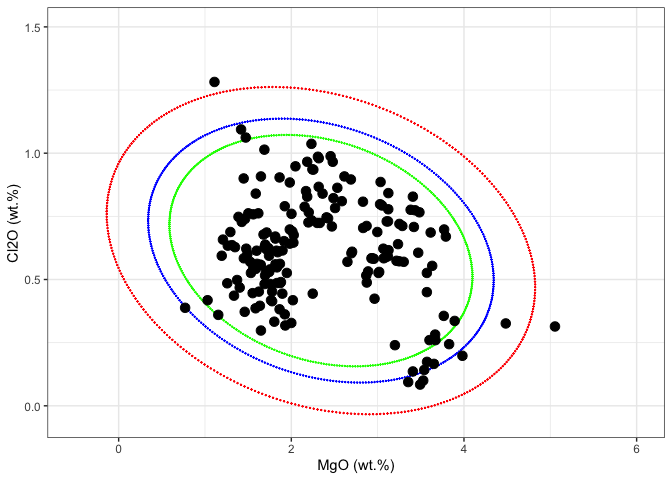
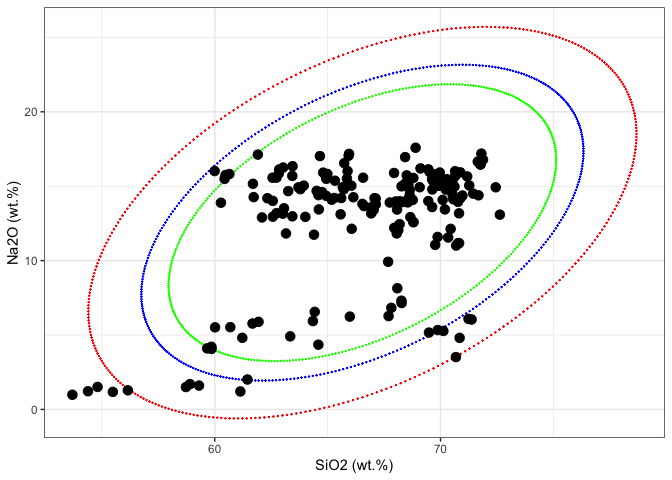
Updates

diff --git a/README.md b/README.md
@@ -92,17 +92,17 @@ the ellipse are considered to be part of the underlying distribution
 with the specified confidence level `conf_level`.
 
 ``` r
-ellipse_99 <- confidence_ellipse(glass, x = MgO, y = Cl2O, conf_level = 0.99)
-ellipse_95 <- confidence_ellipse(glass, x = MgO, y = Cl2O, conf_level = 0.95)
-ellipse_90 <- confidence_ellipse(glass, x = MgO, y = Cl2O, conf_level = 0.90)
+ellipse_99 <- confidence_ellipse(glass, x = SiO2, y = Na2O, conf_level = 0.99)
+ellipse_95 <- confidence_ellipse(glass, x = SiO2, y = Na2O, conf_level = 0.95)
+ellipse_90 <- confidence_ellipse(glass, x = SiO2, y = Na2O, conf_level = 0.90)
 ```
 
 ``` r
 ellipse_99 %>% glimpse()
 #> Rows: 361
 #> Columns: 2
-#> $ x <dbl> -0.138094945, -0.138406455, -0.137962123, -0.136762084, -0.134806705…
-#> $ y <dbl> 0.7702743, 0.7592797, 0.7482409, 0.7371614, 0.7260445, 0.7148935, 0.…
+#> $ x <dbl> 76.35866, 76.23254, 76.10346, 75.97148, 75.83662, 75.69893, 75.55845…
+#> $ y <dbl> 24.26617, 24.36884, 24.46791, 24.56335, 24.65513, 24.74322, 24.82760…
 ```
 
 ``` r
@@ -110,11 +110,9 @@ ggplot() +
   geom_point(data = ellipse_99, aes(x = x, y = y), color = "red", size = .1) +
   geom_point(data = ellipse_95, aes(x = x, y = y), color = "blue", size = .1) +
   geom_point(data = ellipse_90, aes(x = x, y = y), color = "green", size = .1) +
-  geom_point(data = glass, aes(x = MgO, y = Cl2O), color = "black", size = 3L) +
-  xlim(-.5, 6) +
-  ylim(-0.05, 1.5) +
+  geom_point(data = glass, aes(x = SiO2, y = Na2O), color = "black", size = 3L) +
   scale_color_brewer(palette = "Set1", direction = 1) +
-  labs(x = "MgO (wt.%)", y = "Cl2O (wt.%)") +
+  labs(x = "SiO2 (wt.%)", y = "Na2O (wt.%)") +
   theme_bw() +
   theme(legend.position = "none")
 ```
@@ -137,28 +135,30 @@ type, you may need to convert it to a factor using functions like
 `as.factor()` or `forcats::as_factor()`.
 
 ``` r
-ellipse_grp <- glass %>% confidence_ellipse(MgO, Cl2O, glassType)
+ellipse_grp <- glass %>% confidence_ellipse(SiO2, Na2O, glassType)
 ```
 
 ``` r
 ellipse_grp %>% glimpse()
 #> Rows: 1,444
 #> Columns: 3
-#> $ x         <dbl> 0.5675946, 0.5678922, 0.5687056, 0.5700346, 0.5718788, 0.574…
-#> $ y         <dbl> 0.6758368, 0.6688488, 0.6618660, 0.6548902, 0.6479238, 0.640…
+#> $ x         <dbl> 59.59996, 59.59948, 59.60135, 59.60557, 59.61214, 59.62106, …
+#> $ y         <dbl> 14.71814, 14.65429, 14.59039, 14.52647, 14.46255, 14.39864, …
 #> $ glassType <fct> 1, 1, 1, 1, 1, 1, 1, 1, 1, 1, 1, 1, 1, 1, 1, 1, 1, 1, 1, 1, …
 ```
 
 ``` r
 ggplot() +
-  geom_point(data = glass, aes(x = MgO, y = Cl2O, colour = glassType, shape = glassType), size = 3L) +
+  geom_point(data = glass, aes(x = SiO2, y = Na2O, colour = glassType, shape = glassType), size = 3L) +
   geom_line(data = ellipse_grp, aes(x = x, y = y, colour = glassType), linewidth = .1) +
-  xlim(0, 6) +
-  ylim(-0.05, 1.5) +
+  xlim(50, 75) +
+  ylim(0, 20) +
   scale_color_brewer(palette = "Set1", direction = 1) +
-  labs(x = "MgO (wt.%)", y = "Cl2O (wt.%)") +
+  labs(x = "SiO2 (wt.%)", y = "Na2O (wt.%)") +
   theme_bw() +
   theme(legend.position = "none")
+#> Warning: Removed 12 rows containing missing values or values outside the scale range
+#> (`geom_line()`).
 ```
 
 <img src="man/figures/README-unnamed-chunk-12-1.png" width="100%" />
